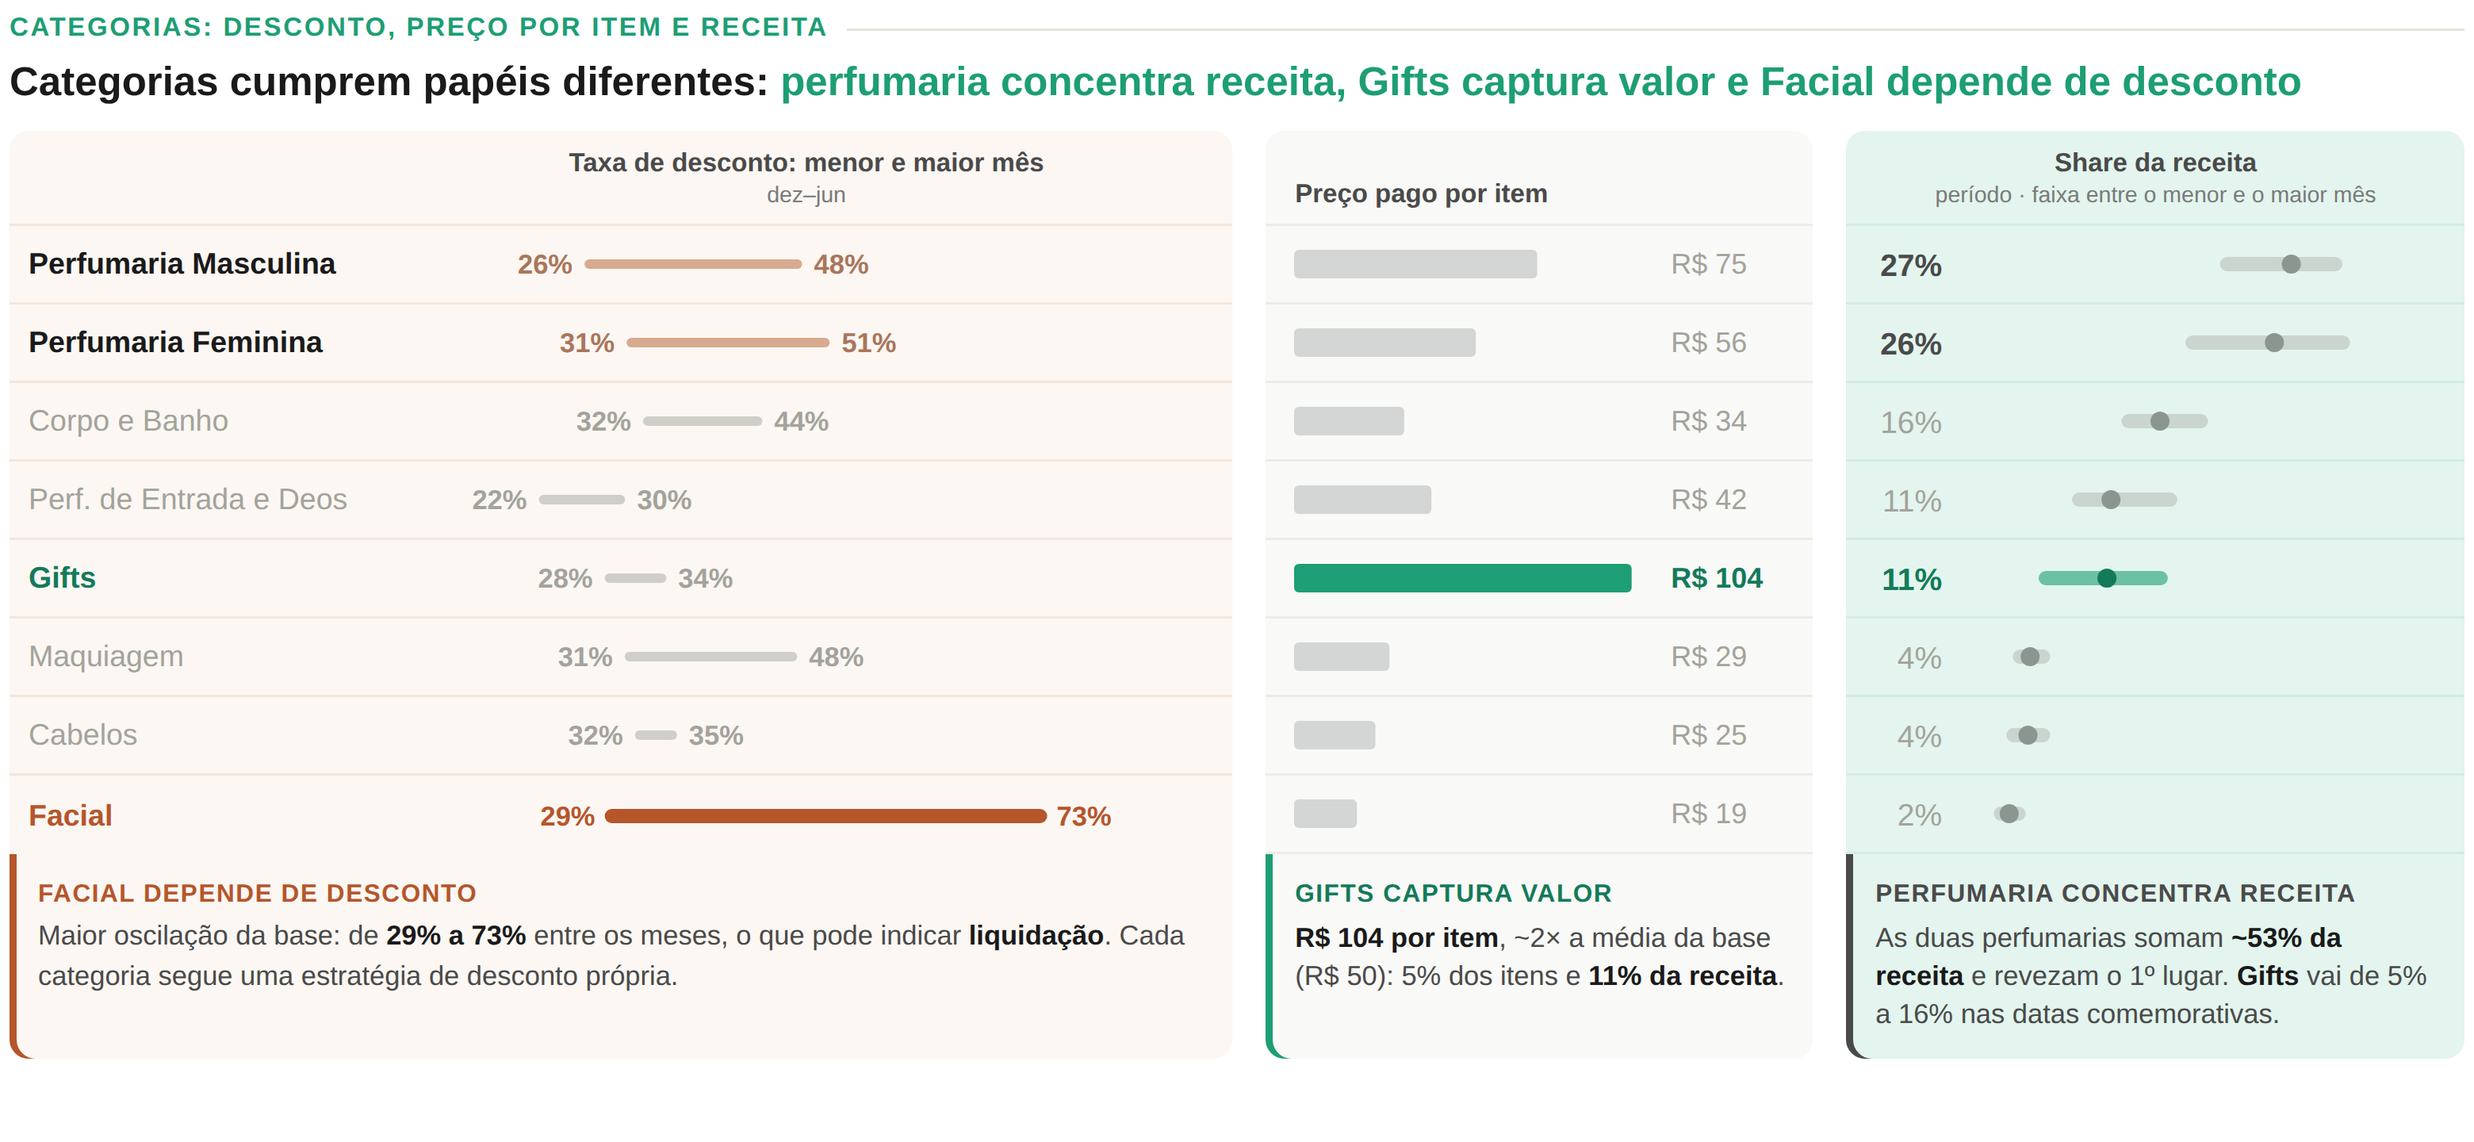
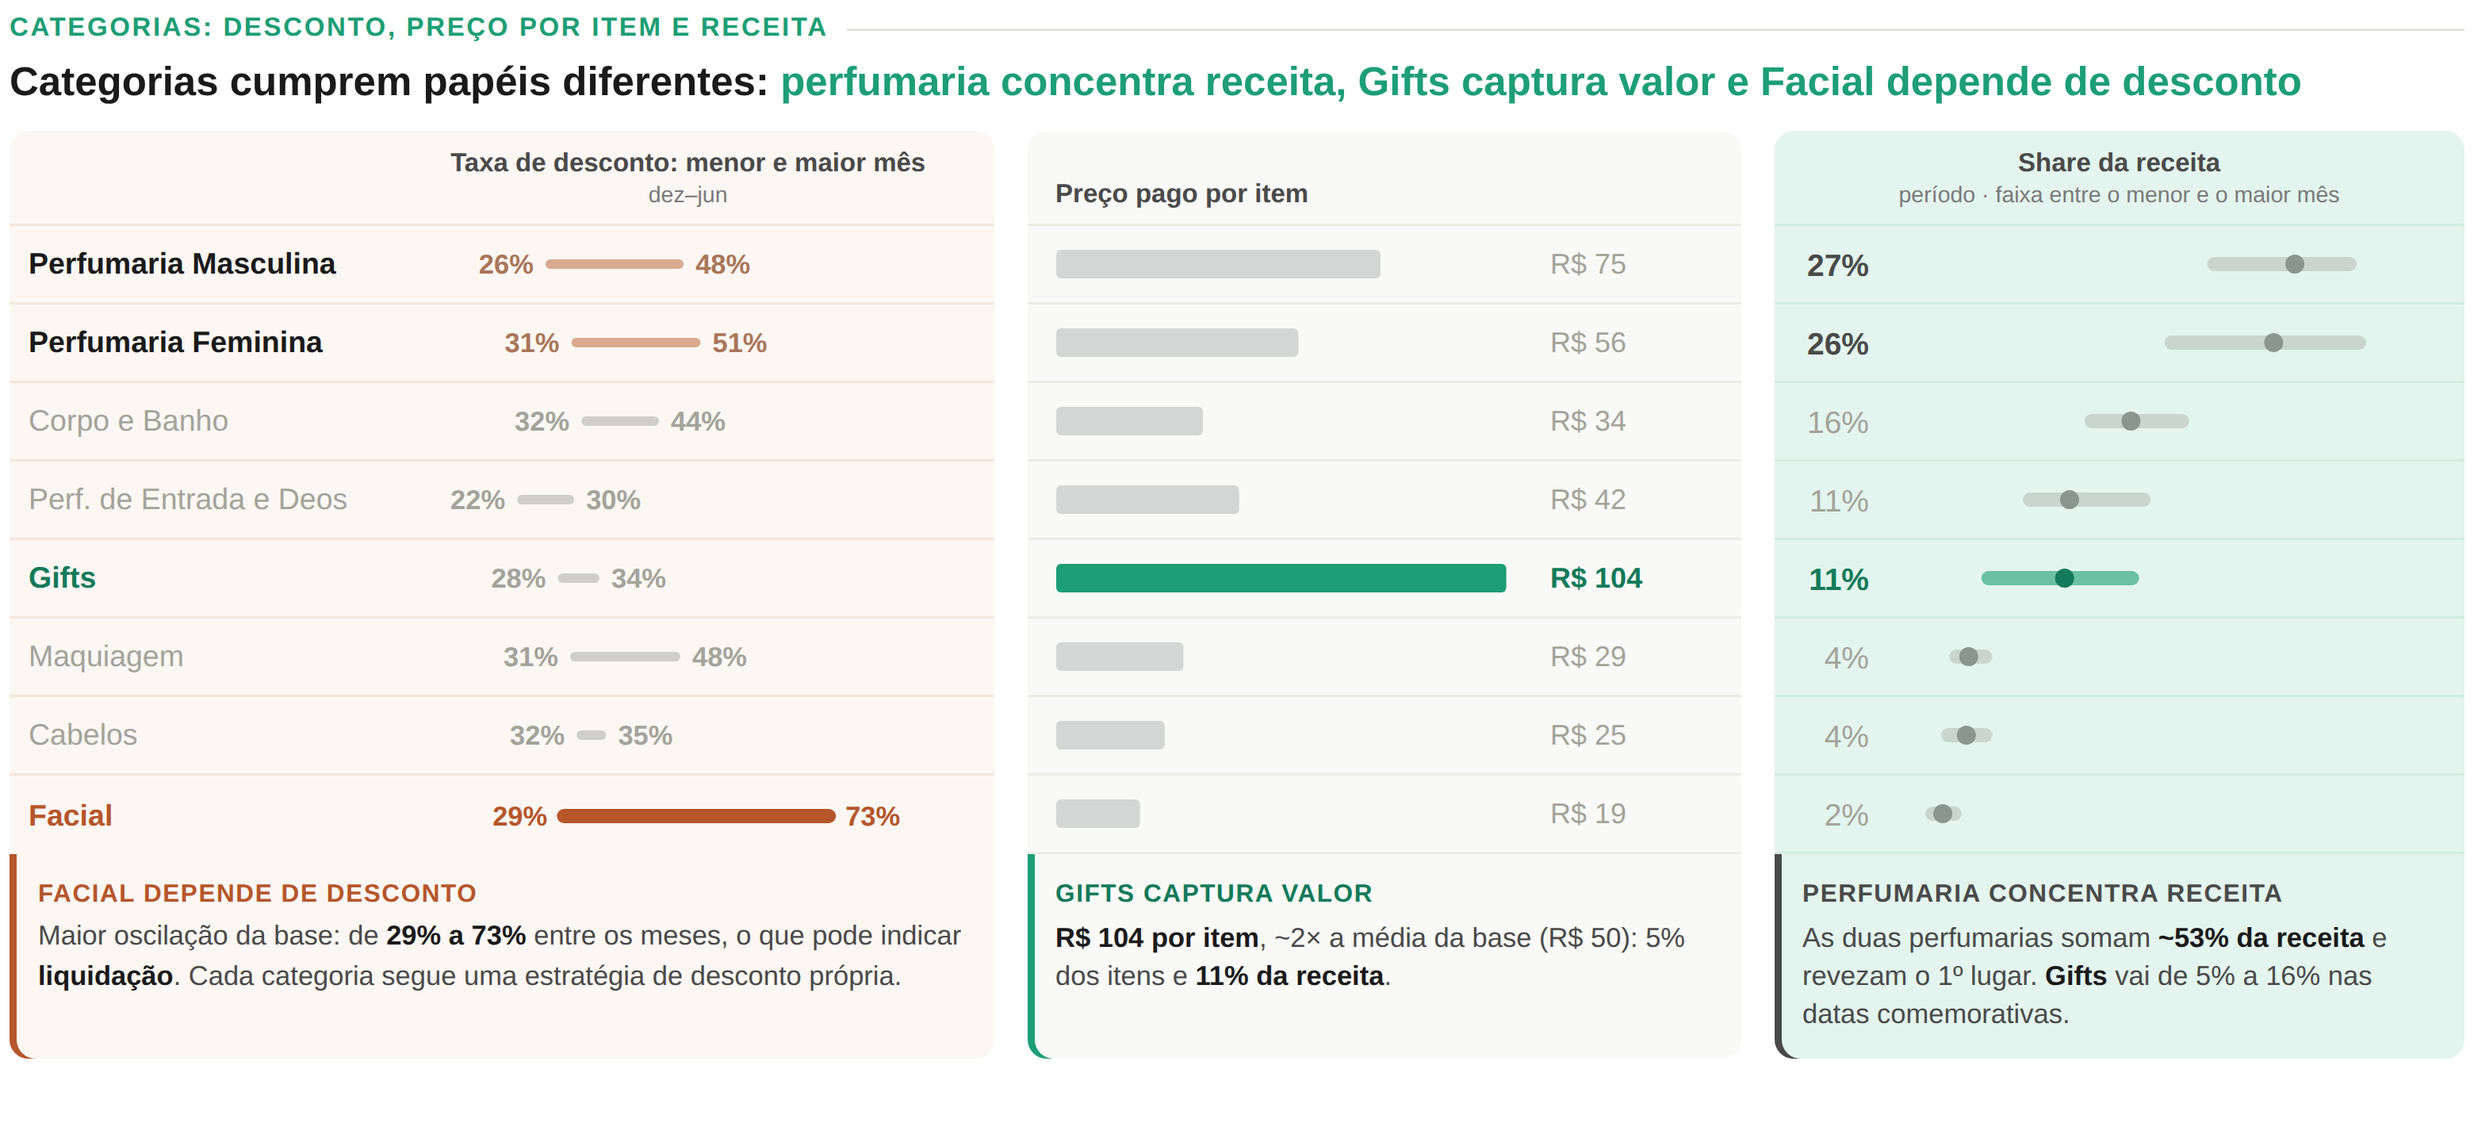
Widget de categorias: rebalanceia largura dos blocos
Claude-Session: https://claude.ai/code/session_01NUJZKTcM8cs9QBTcUeuacF

diff --git a/apresentacao/widgets/04_categorias.html b/apresentacao/widgets/04_categorias.html
@@ -44,7 +44,7 @@
   .cats tr:first-child > th:nth-child(2) { border-radius: 0 8px 0 0; }
   .cats tr.notas > td:first-child { border-radius: 0 0 8px 8px; }
   .cats th.preco, .cats td.preco { background: #f9f9f7; }
-  .cats th.preco { width: 230px; border-radius: 8px 8px 0 0; padding-left: 12px; }
+  .cats th.preco { width: 300px; border-radius: 8px 8px 0 0; padding-left: 12px; }
   .cats td.preco { padding-left: 12px; border-top: 1px solid #ececE6; }
   .cats th.lado, .cats td.lado { background: var(--verde-claro); }
   .cats td.lado { border-top: 1px solid #d3ece2; }
@@ -64,7 +64,7 @@
 <div class="widget">
   <div class="rotulo">Categorias: desconto, preço por item e receita</div>
   <h3>Categorias cumprem papéis diferentes: <span>perfumaria concentra receita, Gifts captura valor e Facial depende de desconto</span></h3>
-  <table class="cats"><tr><th></th><th>Taxa de desconto: menor e maior mês<span>dez–jun</span></th><th class="sep"></th><th class="preco esq">Preço pago por item</th><th class="sep"></th><th class="lado" colspan="2">Share da receita<span>período · faixa entre o menor e o maior mês</span></th></tr><tr class="perf"><td class="nome">Perfumaria Masculina</td><td><svg width="330" height="22"><line x1="79.7" x2="167.2" y1="11" y2="11" stroke="#d8aa90" stroke-width="4" stroke-linecap="round"/><text x="72.7" y="15" text-anchor="end" class="amp" fill="#a9765a">26%</text><text x="174.2" y="15" class="amp" fill="#a9765a">48%</text></svg></td><td class="sep"></td><td class="preco"><div class="barra"><svg width="150" height="18"><rect x="0" y="3" width="102.2" height="12" rx="2" fill="#d3d6d4"/></svg><b>R$&nbsp;75</b></div></td><td class="sep"></td><td class="lado share">27%</td><td class="lado"><svg width="170" height="22"><line x1="104.2" x2="149.7" y1="11" y2="11" stroke="#cbd5d0" stroke-width="6" stroke-linecap="round" stroke-opacity="1"/><circle cx="131.2" cy="11" r="4" fill="#8c9690"/></svg></td></tr><tr class="perf"><td class="nome">Perfumaria Feminina</td><td><svg width="330" height="22"><line x1="97.4" x2="178.8" y1="11" y2="11" stroke="#d8aa90" stroke-width="4" stroke-linecap="round"/><text x="90.4" y="15" text-anchor="end" class="amp" fill="#a9765a">31%</text><text x="185.8" y="15" class="amp" fill="#a9765a">51%</text></svg></td><td class="sep"></td><td class="preco"><div class="barra"><svg width="150" height="18"><rect x="0" y="3" width="76.4" height="12" rx="2" fill="#d3d6d4"/></svg><b>R$&nbsp;56</b></div></td><td class="sep"></td><td class="lado share">26%</td><td class="lado"><svg width="170" height="22"><line x1="89.7" x2="152.9" y1="11" y2="11" stroke="#cbd5d0" stroke-width="6" stroke-linecap="round" stroke-opacity="1"/><circle cx="124.1" cy="11" r="4" fill="#8c9690"/></svg></td></tr><tr class="outra"><td class="nome">Corpo e Banho</td><td><svg width="330" height="22"><line x1="104.3" x2="150.5" y1="11" y2="11" stroke="#cfcfc7" stroke-width="4" stroke-linecap="round"/><text x="97.3" y="15" text-anchor="end" class="amp" fill="#a3a39b">32%</text><text x="157.5" y="15" class="amp" fill="#a3a39b">44%</text></svg></td><td class="sep"></td><td class="preco"><div class="barra"><svg width="150" height="18"><rect x="0" y="3" width="46.3" height="12" rx="2" fill="#d3d6d4"/></svg><b>R$&nbsp;34</b></div></td><td class="sep"></td><td class="lado share">16%</td><td class="lado"><svg width="170" height="22"><line x1="62.8" x2="93.2" y1="11" y2="11" stroke="#cbd5d0" stroke-width="6" stroke-linecap="round" stroke-opacity="1"/><circle cx="76.0" cy="11" r="4" fill="#8c9690"/></svg></td></tr><tr class="outra"><td class="nome">Perf. de Entrada e Deos</td><td><svg width="330" height="22"><line x1="60.5" x2="92.8" y1="11" y2="11" stroke="#cfcfc7" stroke-width="4" stroke-linecap="round"/><text x="53.5" y="15" text-anchor="end" class="amp" fill="#a3a39b">22%</text><text x="99.8" y="15" class="amp" fill="#a3a39b">30%</text></svg></td><td class="sep"></td><td class="preco"><div class="barra"><svg width="150" height="18"><rect x="0" y="3" width="57.7" height="12" rx="2" fill="#d3d6d4"/></svg><b>R$&nbsp;42</b></div></td><td class="sep"></td><td class="lado share">11%</td><td class="lado"><svg width="170" height="22"><line x1="42.0" x2="80.3" y1="11" y2="11" stroke="#cbd5d0" stroke-width="6" stroke-linecap="round" stroke-opacity="1"/><circle cx="55.4" cy="11" r="4" fill="#8c9690"/></svg></td></tr><tr class="gift"><td class="nome">Gifts</td><td><svg width="330" height="22"><line x1="88.2" x2="110.1" y1="11" y2="11" stroke="#cfcfc7" stroke-width="4" stroke-linecap="round"/><text x="81.2" y="15" text-anchor="end" class="amp" fill="#a3a39b">28%</text><text x="117.1" y="15" class="amp" fill="#a3a39b">34%</text></svg></td><td class="sep"></td><td class="preco"><div class="barra"><svg width="150" height="18"><rect x="0" y="3" width="141.9" height="12" rx="2" fill="#1d9e75"/></svg><b>R$&nbsp;104</b></div></td><td class="sep"></td><td class="lado share">11%</td><td class="lado"><svg width="170" height="22"><line x1="28.0" x2="76.3" y1="11" y2="11" stroke="#1d9e75" stroke-width="6" stroke-linecap="round" stroke-opacity="0.6"/><circle cx="53.7" cy="11" r="4" fill="#137a5a"/></svg></td></tr><tr class="outra"><td class="nome">Maquiagem</td><td><svg width="330" height="22"><line x1="96.6" x2="165.1" y1="11" y2="11" stroke="#cfcfc7" stroke-width="4" stroke-linecap="round"/><text x="89.6" y="15" text-anchor="end" class="amp" fill="#a3a39b">31%</text><text x="172.1" y="15" class="amp" fill="#a3a39b">48%</text></svg></td><td class="sep"></td><td class="preco"><div class="barra"><svg width="150" height="18"><rect x="0" y="3" width="40.1" height="12" rx="2" fill="#d3d6d4"/></svg><b>R$&nbsp;29</b></div></td><td class="sep"></td><td class="lado share">4%</td><td class="lado"><svg width="170" height="22"><line x1="17.1" x2="26.9" y1="11" y2="11" stroke="#cbd5d0" stroke-width="6" stroke-linecap="round" stroke-opacity="1"/><circle cx="21.4" cy="11" r="4" fill="#8c9690"/></svg></td></tr><tr class="outra"><td class="nome">Cabelos</td><td><svg width="330" height="22"><line x1="100.9" x2="114.6" y1="11" y2="11" stroke="#cfcfc7" stroke-width="4" stroke-linecap="round"/><text x="93.9" y="15" text-anchor="end" class="amp" fill="#a3a39b">32%</text><text x="121.6" y="15" class="amp" fill="#a3a39b">35%</text></svg></td><td class="sep"></td><td class="preco"><div class="barra"><svg width="150" height="18"><rect x="0" y="3" width="34.2" height="12" rx="2" fill="#d3d6d4"/></svg><b>R$&nbsp;25</b></div></td><td class="sep"></td><td class="lado share">4%</td><td class="lado"><svg width="170" height="22"><line x1="14.4" x2="26.9" y1="11" y2="11" stroke="#cbd5d0" stroke-width="6" stroke-linecap="round" stroke-opacity="1"/><circle cx="20.5" cy="11" r="4" fill="#8c9690"/></svg></td></tr><tr class="facial"><td class="nome">Facial</td><td><svg width="330" height="22"><line x1="89.2" x2="269.2" y1="11" y2="11" stroke="#b5562b" stroke-width="6" stroke-linecap="round"/><text x="82.2" y="15" text-anchor="end" class="amp" fill="#b5562b">29%</text><text x="276.2" y="15" class="amp" fill="#b5562b">73%</text></svg></td><td class="sep"></td><td class="preco"><div class="barra"><svg width="150" height="18"><rect x="0" y="3" width="26.4" height="12" rx="2" fill="#d3d6d4"/></svg><b>R$&nbsp;19</b></div></td><td class="sep"></td><td class="lado share">2%</td><td class="lado"><svg width="170" height="22"><line x1="9.1" x2="16.5" y1="11" y2="11" stroke="#cbd5d0" stroke-width="6" stroke-linecap="round" stroke-opacity="1"/><circle cx="12.6" cy="11" r="4" fill="#8c9690"/></svg></td></tr><tr class="notas"><td colspan="2" class="nota d"><span class="tit">Facial depende de desconto</span>Maior oscilação da base: de <b>29% a 73%</b> entre os meses, o que pode indicar <b>liquidação</b>. Cada categoria segue uma estratégia de desconto própria.</td><td class="sep"></td><td class="preco nota p"><span class="tit">Gifts captura valor</span><b>R$&nbsp;104 por item</b>, ~2× a média da base (R$&nbsp;50): 5% dos itens e <b>11% da receita</b>.</td><td class="sep"></td><td colspan="2" class="lado nota s"><span class="tit">Perfumaria concentra receita</span>As duas perfumarias somam <b>~53% da receita</b> e revezam o 1º lugar. <b>Gifts</b> vai de 5% a 16% nas datas comemorativas.</td></tr></table>
+  <table class="cats"><tr><th></th><th>Taxa de desconto: menor e maior mês<span>dez–jun</span></th><th class="sep"></th><th class="preco esq">Preço pago por item</th><th class="sep"></th><th class="lado" colspan="2">Share da receita<span>período · faixa entre o menor e o maior mês</span></th></tr><tr class="perf"><td class="nome">Perfumaria Masculina</td><td><svg width="230" height="22"><line x1="62.3" x2="116.4" y1="11" y2="11" stroke="#d8aa90" stroke-width="4" stroke-linecap="round"/><text x="55.3" y="15" text-anchor="end" class="amp" fill="#a9765a">26%</text><text x="123.4" y="15" class="amp" fill="#a9765a">48%</text></svg></td><td class="sep"></td><td class="preco"><div class="barra"><svg width="200" height="18"><rect x="0" y="3" width="136.3" height="12" rx="2" fill="#d3d6d4"/></svg><b>R$&nbsp;75</b></div></td><td class="sep"></td><td class="lado share">27%</td><td class="lado"><svg width="210" height="22"><line x1="128.9" x2="185.7" y1="11" y2="11" stroke="#cbd5d0" stroke-width="6" stroke-linecap="round" stroke-opacity="1"/><circle cx="162.7" cy="11" r="4" fill="#8c9690"/></svg></td></tr><tr class="perf"><td class="nome">Perfumaria Feminina</td><td><svg width="230" height="22"><line x1="73.2" x2="123.5" y1="11" y2="11" stroke="#d8aa90" stroke-width="4" stroke-linecap="round"/><text x="66.2" y="15" text-anchor="end" class="amp" fill="#a9765a">31%</text><text x="130.5" y="15" class="amp" fill="#a9765a">51%</text></svg></td><td class="sep"></td><td class="preco"><div class="barra"><svg width="200" height="18"><rect x="0" y="3" width="101.8" height="12" rx="2" fill="#d3d6d4"/></svg><b>R$&nbsp;56</b></div></td><td class="sep"></td><td class="lado share">26%</td><td class="lado"><svg width="210" height="22"><line x1="110.9" x2="189.7" y1="11" y2="11" stroke="#cbd5d0" stroke-width="6" stroke-linecap="round" stroke-opacity="1"/><circle cx="153.8" cy="11" r="4" fill="#8c9690"/></svg></td></tr><tr class="outra"><td class="nome">Corpo e Banho</td><td><svg width="230" height="22"><line x1="77.4" x2="106.0" y1="11" y2="11" stroke="#cfcfc7" stroke-width="4" stroke-linecap="round"/><text x="70.4" y="15" text-anchor="end" class="amp" fill="#a3a39b">32%</text><text x="113.0" y="15" class="amp" fill="#a3a39b">44%</text></svg></td><td class="sep"></td><td class="preco"><div class="barra"><svg width="200" height="18"><rect x="0" y="3" width="61.7" height="12" rx="2" fill="#d3d6d4"/></svg><b>R$&nbsp;34</b></div></td><td class="sep"></td><td class="lado share">16%</td><td class="lado"><svg width="210" height="22"><line x1="77.3" x2="115.3" y1="11" y2="11" stroke="#cbd5d0" stroke-width="6" stroke-linecap="round" stroke-opacity="1"/><circle cx="93.8" cy="11" r="4" fill="#8c9690"/></svg></td></tr><tr class="outra"><td class="nome">Perf. de Entrada e Deos</td><td><svg width="230" height="22"><line x1="50.4" x2="70.4" y1="11" y2="11" stroke="#cfcfc7" stroke-width="4" stroke-linecap="round"/><text x="43.4" y="15" text-anchor="end" class="amp" fill="#a3a39b">22%</text><text x="77.4" y="15" class="amp" fill="#a3a39b">30%</text></svg></td><td class="sep"></td><td class="preco"><div class="barra"><svg width="200" height="18"><rect x="0" y="3" width="76.9" height="12" rx="2" fill="#d3d6d4"/></svg><b>R$&nbsp;42</b></div></td><td class="sep"></td><td class="lado share">11%</td><td class="lado"><svg width="210" height="22"><line x1="51.3" x2="99.1" y1="11" y2="11" stroke="#cbd5d0" stroke-width="6" stroke-linecap="round" stroke-opacity="1"/><circle cx="68.0" cy="11" r="4" fill="#8c9690"/></svg></td></tr><tr class="gift"><td class="nome">Gifts</td><td><svg width="230" height="22"><line x1="67.5" x2="81.0" y1="11" y2="11" stroke="#cfcfc7" stroke-width="4" stroke-linecap="round"/><text x="60.5" y="15" text-anchor="end" class="amp" fill="#a3a39b">28%</text><text x="88.0" y="15" class="amp" fill="#a3a39b">34%</text></svg></td><td class="sep"></td><td class="preco"><div class="barra"><svg width="200" height="18"><rect x="0" y="3" width="189.2" height="12" rx="2" fill="#1d9e75"/></svg><b>R$&nbsp;104</b></div></td><td class="sep"></td><td class="lado share">11%</td><td class="lado"><svg width="210" height="22"><line x1="33.9" x2="94.2" y1="11" y2="11" stroke="#1d9e75" stroke-width="6" stroke-linecap="round" stroke-opacity="0.6"/><circle cx="65.9" cy="11" r="4" fill="#137a5a"/></svg></td></tr><tr class="outra"><td class="nome">Maquiagem</td><td><svg width="230" height="22"><line x1="72.7" x2="115.0" y1="11" y2="11" stroke="#cfcfc7" stroke-width="4" stroke-linecap="round"/><text x="65.7" y="15" text-anchor="end" class="amp" fill="#a3a39b">31%</text><text x="122.0" y="15" class="amp" fill="#a3a39b">48%</text></svg></td><td class="sep"></td><td class="preco"><div class="barra"><svg width="200" height="18"><rect x="0" y="3" width="53.5" height="12" rx="2" fill="#d3d6d4"/></svg><b>R$&nbsp;29</b></div></td><td class="sep"></td><td class="lado share">4%</td><td class="lado"><svg width="210" height="22"><line x1="20.4" x2="32.5" y1="11" y2="11" stroke="#cbd5d0" stroke-width="6" stroke-linecap="round" stroke-opacity="1"/><circle cx="25.6" cy="11" r="4" fill="#8c9690"/></svg></td></tr><tr class="outra"><td class="nome">Cabelos</td><td><svg width="230" height="22"><line x1="75.4" x2="83.8" y1="11" y2="11" stroke="#cfcfc7" stroke-width="4" stroke-linecap="round"/><text x="68.4" y="15" text-anchor="end" class="amp" fill="#a3a39b">32%</text><text x="90.8" y="15" class="amp" fill="#a3a39b">35%</text></svg></td><td class="sep"></td><td class="preco"><div class="barra"><svg width="200" height="18"><rect x="0" y="3" width="45.6" height="12" rx="2" fill="#d3d6d4"/></svg><b>R$&nbsp;25</b></div></td><td class="sep"></td><td class="lado share">4%</td><td class="lado"><svg width="210" height="22"><line x1="17.0" x2="32.6" y1="11" y2="11" stroke="#cbd5d0" stroke-width="6" stroke-linecap="round" stroke-opacity="1"/><circle cx="24.6" cy="11" r="4" fill="#8c9690"/></svg></td></tr><tr class="facial"><td class="nome">Facial</td><td><svg width="230" height="22"><line x1="68.1" x2="179.4" y1="11" y2="11" stroke="#b5562b" stroke-width="6" stroke-linecap="round"/><text x="61.1" y="15" text-anchor="end" class="amp" fill="#b5562b">29%</text><text x="186.4" y="15" class="amp" fill="#b5562b">73%</text></svg></td><td class="sep"></td><td class="preco"><div class="barra"><svg width="200" height="18"><rect x="0" y="3" width="35.2" height="12" rx="2" fill="#d3d6d4"/></svg><b>R$&nbsp;19</b></div></td><td class="sep"></td><td class="lado share">2%</td><td class="lado"><svg width="210" height="22"><line x1="10.4" x2="19.6" y1="11" y2="11" stroke="#cbd5d0" stroke-width="6" stroke-linecap="round" stroke-opacity="1"/><circle cx="14.7" cy="11" r="4" fill="#8c9690"/></svg></td></tr><tr class="notas"><td colspan="2" class="nota d"><span class="tit">Facial depende de desconto</span>Maior oscilação da base: de <b>29% a 73%</b> entre os meses, o que pode indicar <b>liquidação</b>. Cada categoria segue uma estratégia de desconto própria.</td><td class="sep"></td><td class="preco nota p"><span class="tit">Gifts captura valor</span><b>R$&nbsp;104 por item</b>, ~2× a média da base (R$&nbsp;50): 5% dos itens e <b>11% da receita</b>.</td><td class="sep"></td><td colspan="2" class="lado nota s"><span class="tit">Perfumaria concentra receita</span>As duas perfumarias somam <b>~53% da receita</b> e revezam o 1º lugar. <b>Gifts</b> vai de 5% a 16% nas datas comemorativas.</td></tr></table>
   <template>
 <!--NOTA_DESCONTO--><span class="tit">Facial depende de desconto</span>Maior oscilação da base: de <b>29% a 73%</b> entre os meses, o que pode indicar <b>liquidação</b>. Cada categoria segue uma estratégia de desconto própria.<!--/NOTA_DESCONTO-->
 <!--NOTA_PRECO--><span class="tit">Gifts captura valor</span><b>R$&nbsp;104 por item</b>, ~2× a média da base (R$&nbsp;50): 5% dos itens e <b>11% da receita</b>.<!--/NOTA_PRECO-->

diff --git a/apresentacao/geradores/04_categorias_modelo.html b/apresentacao/geradores/04_categorias_modelo.html
@@ -44,7 +44,7 @@
   .cats tr:first-child > th:nth-child(2) { border-radius: 0 8px 0 0; }
   .cats tr.notas > td:first-child { border-radius: 0 0 8px 8px; }
   .cats th.preco, .cats td.preco { background: #f9f9f7; }
-  .cats th.preco { width: 230px; border-radius: 8px 8px 0 0; padding-left: 12px; }
+  .cats th.preco { width: 300px; border-radius: 8px 8px 0 0; padding-left: 12px; }
   .cats td.preco { padding-left: 12px; border-top: 1px solid #ececE6; }
   .cats th.lado, .cats td.lado { background: var(--verde-claro); }
   .cats td.lado { border-top: 1px solid #d3ece2; }

diff --git a/apresentacao/geradores/04_categorias.py b/apresentacao/geradores/04_categorias.py
@@ -27,12 +27,12 @@ media_pago = tot["rec"].sum() / tot["qt"].sum()
 pct = lambda v: f"{100 * v:.0f}%"
 
 # desconto: só a amplitude entre o menor e o maior mês (dez–jun)
-DW, d0, d1 = 330, 0.15, 0.80
+DW, d0, d1 = 230, 0.15, 0.80
 dx = lambda v: 34 + (v - d0) / (d1 - d0) * (DW - 68)
 # preço pago por item
-PW, pmax = 150, 110
+PW, pmax = 200, 110
 # share: faixa mín–máx mensal e o total do período
-SW, s1 = 170, 0.35
+SW, s1 = 210, 0.35
 sx = lambda v: 4 + v / s1 * (SW - 8)
 
 linhas = []
